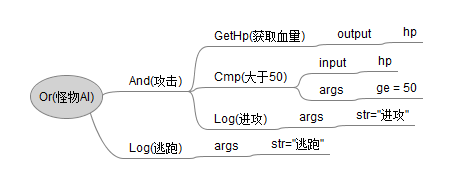
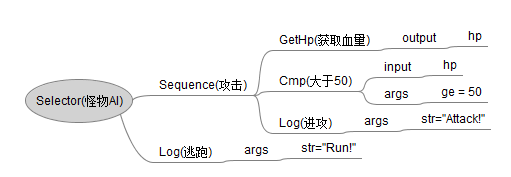
update README.md

Changed region(s): [[0.0299, 0.1412, 0.9573, 0.9322]]

diff --git a/README.md b/README.md
@@ -4,7 +4,7 @@
 之前写过好多种语言的版本，我重新写了一份精简的lua版，只是为了展示用，不考虑性能问题。
 
 ## 基本概念
-### 节点数据结构
+#### 节点数据结构
 ```
 {
     name = 'find_enemy',        -- 节点名称
@@ -15,9 +15,9 @@
     children = {}               -- 子节点
 }
 ```
-### 常量
+#### 常量
 通常是固定值，比如范围，类型之类的
-### 输入/输出变量
+#### 输入/输出变量
 因为节点之间都有相互的影响，比如这个节点可能会用到上一个节点所产生的数据，所以大多数行为树设计者都提供一个数据结构来记录行为树的运行状态，称之为“黑板”。
 
 我偷换了个概念，把节点当成一个function来执行，如上面一个节点定义的input={'var1', 'var2'}意思是在执行节点前从黑板里把var1和var2这两个变量取出来，作为参数传进去，在节点执行完后把结果返回，写到target这个变量上。整个过程就像下面这段伪代码：
@@ -38,37 +38,43 @@ end
     input = {'target'},
 }
 ```
+#### 状态返回
++ SUCCESS 成功
++ FAIL 失败
++ RUNNING 正在运行
++ CLOSED 已经运行过
 
-## 常用节点
-常规的行为树做法是节点分成修饰节点和行为节点两大类。我为了更灵活的设计节点，特意混淆了这两个概念。所有的节点都可以返回true或false，所有的节点都可以有行为逻辑。下面我列举我比较常用的一些节点
-+ Parallel
-并行执行, 执行所有子节点并反回true
-+ And
-且，执行所有子节点直到返回false(等同于Sequence顺序执行，我为了好理解叫And)
-+ Or
-或，执行所有子节点直到返回true(等同于Selector 选择执行)
-+ Not
-取反
+## 复合节点
++ Parallel 并行执行, 执行所有子节点并反回true
++ Sequence 顺序执行，执行所有子节点直到返回false
++ Selector 选择执行，执行所有子节点直到返回true
 
-## 特殊节点
-+ Wait 等待N帧后之后继续执行行为树
-+ WaitUntil 一直等待，直到子节点返回true，可以让行为树一起卡在一个节点上，比如从A移动到B，WaitUntil的子节点就是判断与B的距离是否小于一定范围
-+ Flow 执行流，由多个包含WaitUntil的子节点组成，可完成一系列动作，如从A移动到B再发起攻击
+## 装饰节点
++ Not 取反
++ AlwaysSuccess
++ AlwaysFail
 
 ## 行为节点
-行为树通常是作为一种决策树来使用，但决策树是每帧执行一次，当需要执行一系列动作的时候，决策树需要停下来，否则重复的命令会打断原来的行为。我的做法是在执行动作的时候把行为树挂起，在完成一个动作由外部触发唤醒协程继续往下执行。
++ Wait 等待一段时间后继续执行
++ MoveToTarget 移动到目标
++ GetHp 获取生命值
++ Attack 攻击目标
 
 ## API
 + new 创建新的行为树对象
-+ update 唤醒超时协程或重新执行一次行为树
-+ resume 唤醒指定行为
-+ yield 挂起某个行为
++ run 执行一次tick
 + set_var 设置变量
 + get_var 获取变量
 
+## Running状态
+做行为树始终绕不开一个问题，就是running状态，如果一套行为树方案没有running状态，那它只能用来做决策树，而不能做持续动作。要想实现running状态，关键是如何用上一次运行的节点恢复起来。其实对复合节点稍做改造即可实现：
++ 只要是有任意子节点返回的是RUNNING, 立即返回RUNNING。
++ 给所有过行过的节点标记为CLOSED
++ 如果根节点返回RUNNING，表示有节点正在执行，否则清除所有CLOSED标记，下次tick重头开始执行。
+![](image/running.png)
+如图，第一次tick在Wait返回了RUNNING，其间FindEnemy和Attack被标记为了CLOSED，第二次tick的时候，Sequence会忽略掉CLOSED的节点，就相当于第二次tick是从Wait开始执行的。
+
 ## 编辑器
-
-
 + 专门写编辑器成本太高，我现在使用Freemind这款思维导图软件作为我们的编辑器，按照约定的格式画好，保存成xml格式，再转换成项目使用的格式。
 
 ![](image/monster.png)
@@ -76,11 +82,11 @@ end
 导出lua格式:
 ```
 return {
-  name = [[Or]],
+  name = [[Selector]],
   desc = [[怪物AI]],
   children = {
     {
-      name = [[And]],
+      name = [[Sequence]],
       desc = [[攻击]],
       children = {
         {
